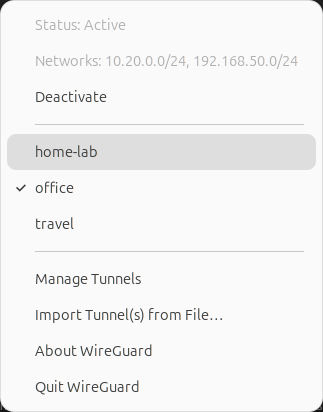
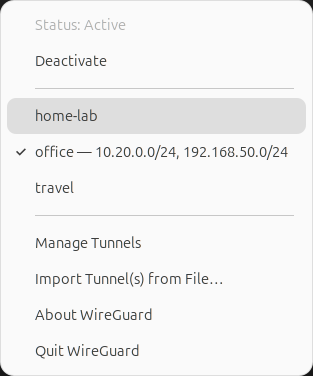
Improve tray network labels and refresh UI screenshots
- Show routed networks beside each active tunnel in the tray.
- Avoid duplicate separators when no tunnels are configured.
- Open the add-tunnel menu upward.
- Refresh screenshots and document editor and tray behavior.

diff --git a/gui/layout.go b/gui/layout.go
@@ -279,24 +279,26 @@ func (t *Tunnels) updateTray() {
 		state = "Unavailable"
 	}
 	items := []tray.Item{{Key: "status", Label: "Status: " + state, Visible: true}}
+	networksByTunnel := make(map[string]string)
 	if active && t.statusAvailable {
-		networks := []string{}
 		for _, d := range t.devices {
+			networks := []string{}
 			for _, p := range d.Peers {
 				for _, ip := range p.AllowedIPs {
 					networks = append(networks, ip.String())
 				}
 			}
-		}
-		networks = uniqueNetworks(networks)
-		if len(networks) == 0 {
-			networks = []string{"None"}
+			networks = uniqueNetworks(networks)
+			if len(networks) == 0 {
+				networks = []string{"None"}
+			}
+			networksByTunnel[d.Name] = strings.Join(networks, ", ")
 		}
 		label := "Deactivate"
 		if len(names) > 1 {
 			label = "Deactivate All"
 		}
-		items = append(items, tray.Item{Key: "networks", Label: "Networks: " + strings.Join(networks, ", "), Visible: true}, tray.Item{Key: "deactivate", Label: label, Visible: true, Enabled: true, Activate: func() {
+		items = append(items, tray.Item{Key: "deactivate", Label: label, Visible: true, Enabled: true, Activate: func() {
 			ShowError(t.deactivateAll())
 		}})
 	}
@@ -307,9 +309,15 @@ func (t *Tunnels) updateTray() {
 			break
 		}
 		name := row.Name()
-		items = append(items, tray.Item{Key: "tunnel:" + name, Label: name, Enabled: t.statusAvailable, Visible: true, Checkable: true, Checked: contains(names, name), Activate: func() { ShowError(t.ToggleTunnel(nil, name)) }})
+		label := name
+		if networks, ok := networksByTunnel[name]; ok {
+			label += " — " + networks
+		}
+		items = append(items, tray.Item{Key: "tunnel:" + name, Label: label, Enabled: t.statusAvailable, Visible: true, Checkable: true, Checked: contains(names, name), Activate: func() { ShowError(t.ToggleTunnel(nil, name)) }})
 	}
-	items = append(items, tray.Item{Separator: true, Visible: true})
+	if t.list.RowAtIndex(0) != nil {
+		items = append(items, tray.Item{Separator: true, Visible: true})
+	}
 	for _, a := range []struct{ label, action string }{{"Manage Tunnels", "manage"}, {"Import Tunnel(s) from File…", "import"}, {"About WireGuard", "about"}, {"Quit WireGuard", "quit"}} {
 		action := a.action
 		items = append(items, tray.Item{Key: "action:" + action, Label: a.label, Enabled: true, Visible: true, Activate: func() {

diff --git a/README.md b/README.md
@@ -10,7 +10,8 @@ The baseline platform is Ubuntu 24.04 with GTK 4.14 and Libadwaita 1.5.
 
 ![Tunnel screen showing the office demo profile active, its interface and peer details, latest handshake, and transfer counters](preview.png)
 
-*The screenshots use example profiles and simulated connection activity.
+*The screenshots show the GTK4/Libadwaita app on Ubuntu with the Yaru theme,
+using example profiles and simulated connection activity.
 No real VPN endpoint or private key is shown.*
 
 [Installation](#installation) · [Usage](#usage) · [Preferences](#preferences) ·
@@ -117,6 +118,8 @@ For removal, see [uninstallation instructions](CONTRIBUTING.md#remove-a-local-de
 5. Check **Latest handshake** and **Transfer** for peer activity. Choose
    **Deactivate** when you want to disconnect.
 
+<img src="docs/screenshots/add-menu.png" alt="Add menu opening above the plus button with Add Empty Tunnel and Import Tunnel(s) from File options" width="1000">
+
 Imports preserve existing profiles: a duplicate filename is rejected. Tunnel
 names must contain 1–15 letters, numbers, or `_ = + . -` characters, without the
 `.conf` extension; `.` and `..` are not valid names.
@@ -133,6 +136,12 @@ Choose **+ → Add Empty Tunnel…** to generate a private key and start a profi
 Give it a name, fill in the configuration supplied by your administrator, and
 choose **Save**. Select an existing tunnel and use **Edit**, below its details,
 to change its name or configuration text.
+
+| New tunnel | Edit tunnel |
+| --- | --- |
+| <img src="docs/screenshots/new-tunnel.png" alt="Add Empty Tunnel window with a blank tunnel name, interface public key, and starter configuration" width="480"> | <img src="docs/screenshots/edit-tunnel.png" alt="Edit Tunnel window showing the office example profile name, public key, and configuration" width="480"> |
+
+*Private keys are redacted in the editor screenshots.*
 
 For example, a split tunnel can route only the office networks through WireGuard:
 
@@ -180,7 +189,7 @@ tunnel before removing it if you also want to disconnect.
 
 Open **Preferences…** from the header menu or press `Ctrl+,`.
 
-<img src="docs/screenshots/preferences.png" alt="Preferences window with Cancel and Save buttons and seven options for tunnels, startup, updates, country flags, and passwordless management" width="620">
+<img src="docs/screenshots/preferences.png" alt="Preferences window with Cancel and Save buttons and seven options for tunnels, startup, updates, country flags, and passwordless management" width="1000">
 
 | Preference | Default on a fresh setup | Behavior |
 | --- | --- | --- |
@@ -214,16 +223,19 @@ and saving writes `Hidden=true`. Desktop-menu launches preserve a custom
 ## System tray
 
 The WireGuard dragon icon is dimmed when inactive and uses the panel's foreground
-color when active, following the panel's light/dark theme.
+color when active, following the panel's light/dark theme. The desktop's
+StatusNotifier host renders the tray menu, so its styling can differ from the
+GTK4 app window. The tray screenshots below use GNOME's AppIndicator host.
 
-| Active | Inactive |
-| --- | --- |
-| ![Active WireGuard panel icon](docs/screenshots/tray-active-icon.png)<br>![Active tray menu showing status, routed networks, Deactivate, and a checked office tunnel](docs/screenshots/tray-active.png) | ![Inactive WireGuard panel icon](docs/screenshots/tray-inactive-icon.png)<br>![Inactive tray menu showing inactive status and unchecked tunnels](docs/screenshots/tray-inactive.png) |
+| Active | Inactive | No tunnels |
+| --- | --- | --- |
+| ![Active WireGuard panel icon](docs/screenshots/tray-active-icon.png)<br>![Active tray menu showing status, Deactivate, and routed networks beside the checked office tunnel](docs/screenshots/tray-active.png) | ![Inactive WireGuard panel icon](docs/screenshots/tray-inactive-icon.png)<br>![Inactive tray menu showing inactive status and unchecked tunnels](docs/screenshots/tray-inactive.png) | ![Tray menu with no tunnels and one separator between status and menu actions](docs/screenshots/tray-empty.png) |
 
 The tray menu shows **Status**, tunnel checkmarks, **Manage Tunnels**, import,
-About, and Quit. When active, it also shows **Networks** and **Deactivate**
-(**Deactivate All** for several interfaces). Tunnel actions are disabled when
-live status is unavailable.
+About, and Quit. Active tunnels show their routed networks beside their names.
+When active, the menu also shows **Deactivate** (**Deactivate All** for several
+interfaces). Tunnel actions are disabled when live status is unavailable. With no
+tunnels, a single separator divides the status from the menu actions.
 
 Closing the window keeps the app in the tray when a StatusNotifier host is
 available. Choose **Manage Tunnels** or launch the app again to reopen the
